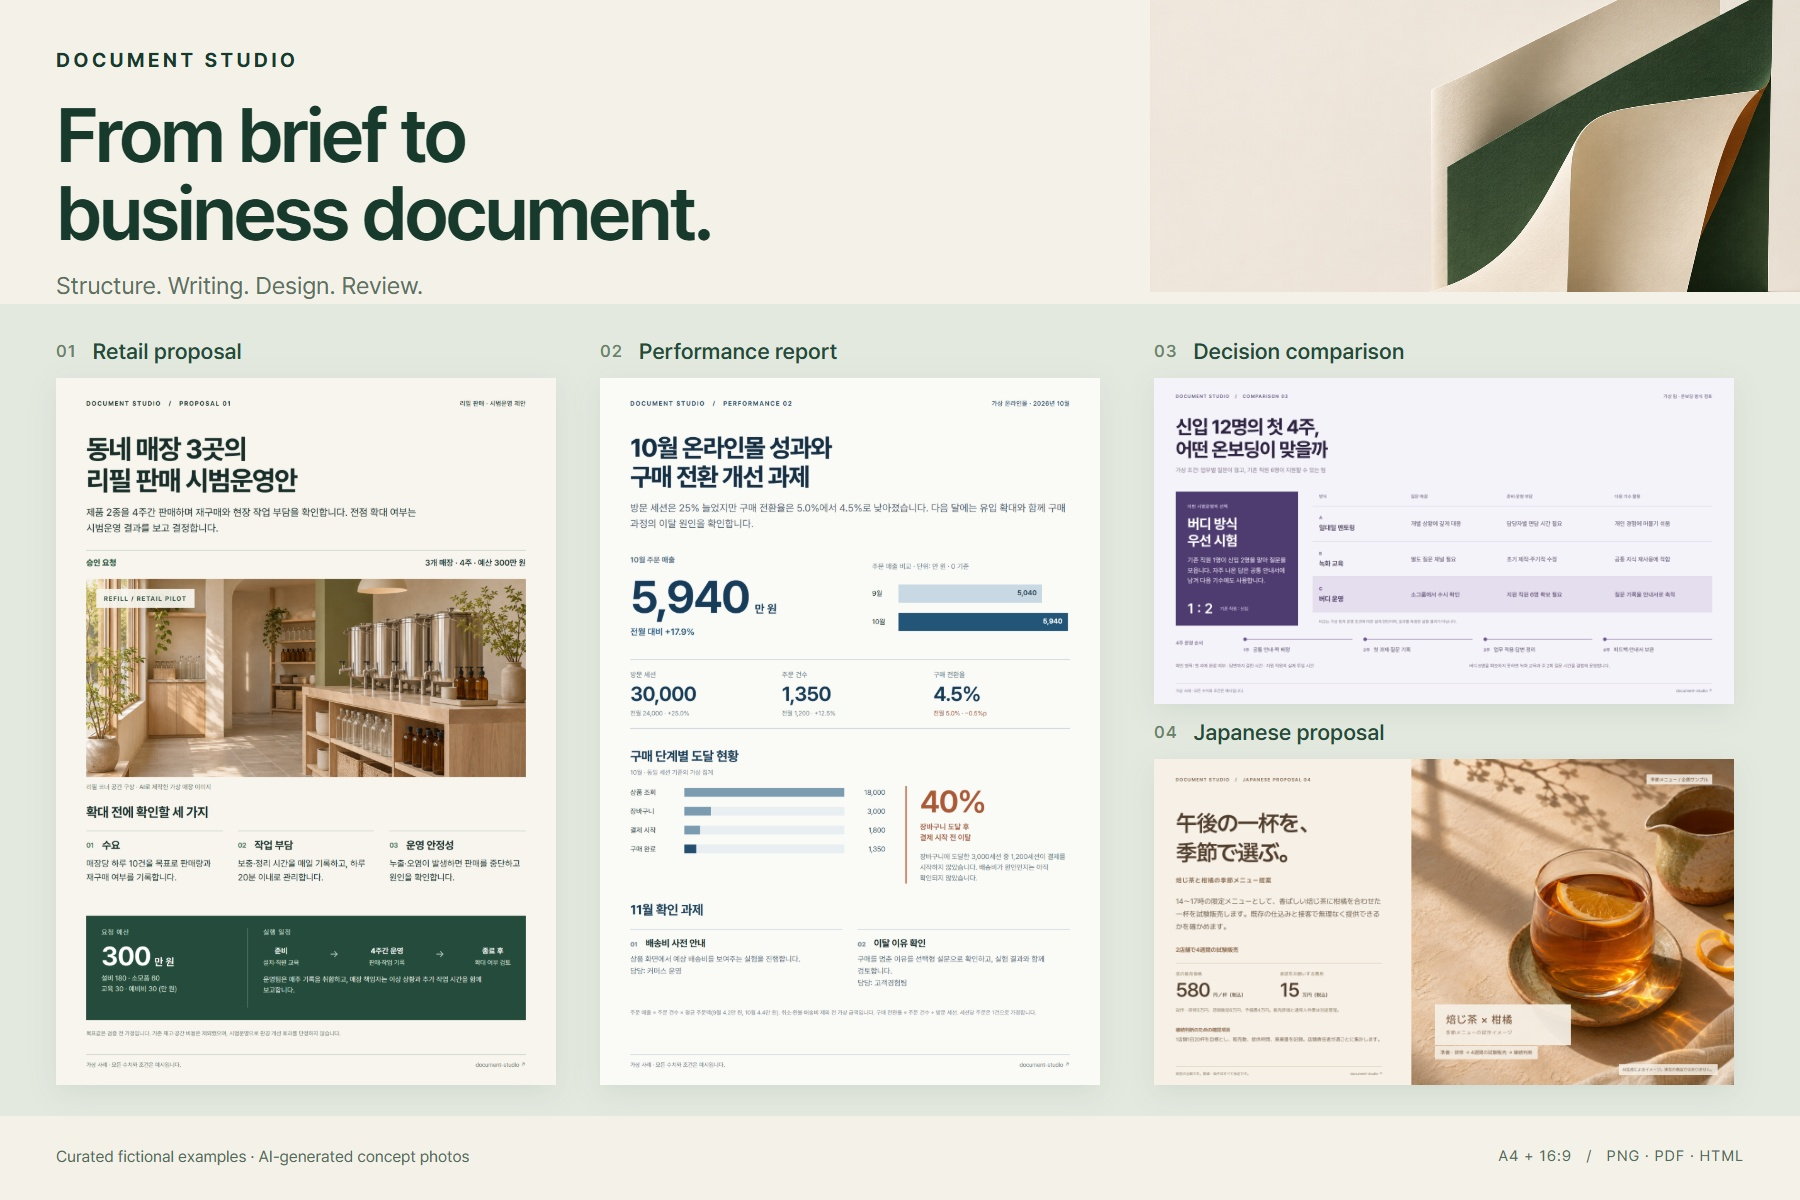
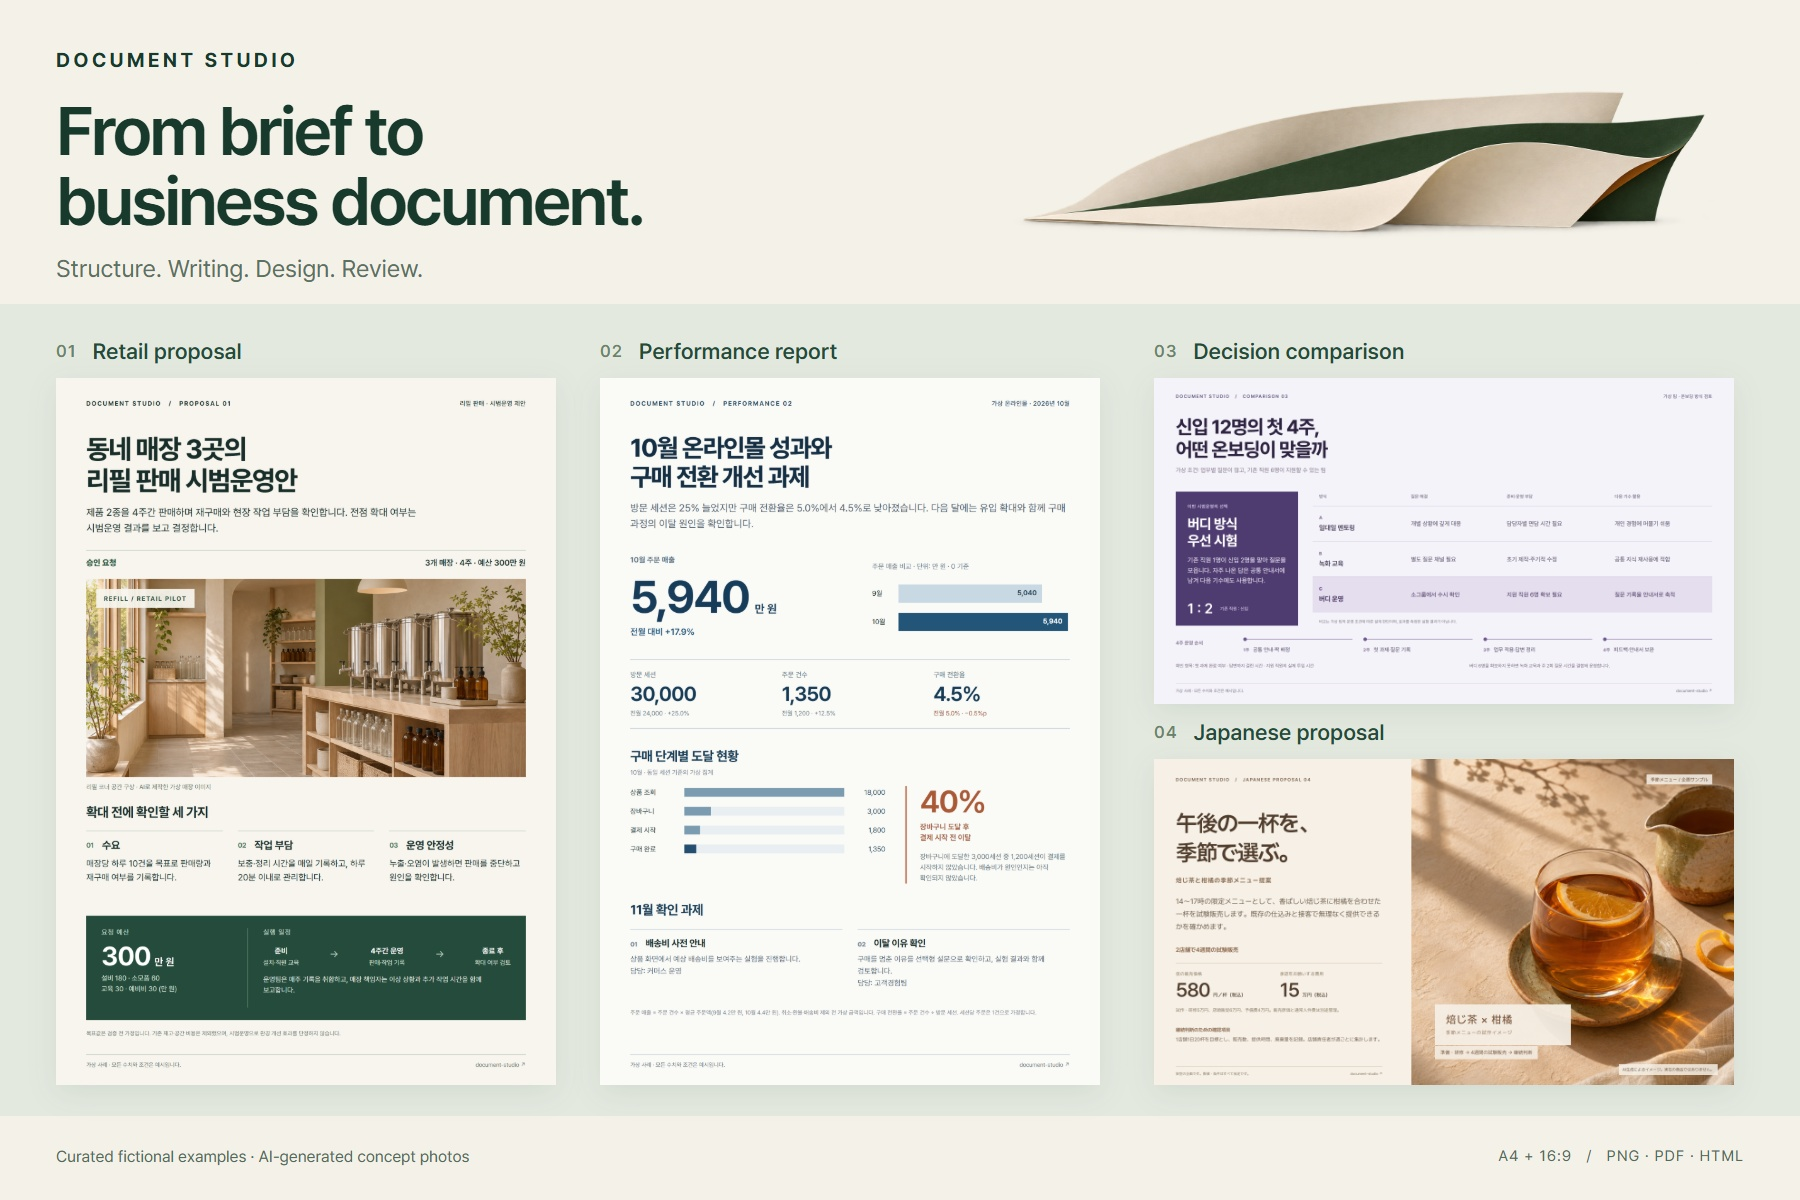
docs: fix cropped background artwork in the README cover (#16)

Changed region(s): [[0.5911, 0.0, 1.0, 0.2467], [0.0311, 0.0925, 0.4044, 0.2467]]

diff --git a/docs/assets/brand/cover.html b/docs/assets/brand/cover.html
@@ -7,10 +7,10 @@
 @font-face{font-family:Pretendard;src:url(../../../examples/document-collection/assets/PretendardVariable.woff2);font-weight:100 900}
 *{box-sizing:border-box}body{margin:0;background:#f4f1e9;font-family:Pretendard,Arial,sans-serif;color:#183a2d}
 .canvas{position:relative;width:1800px;height:1200px;overflow:hidden;background:#f4f1e9}
-.art{position:absolute;right:0;top:0;width:650px;height:292px;object-fit:cover;object-position:center 43%}
+.art{position:absolute;right:36px;top:18px;width:800px;height:268px;object-fit:contain}
 header{position:absolute;left:56px;top:48px;z-index:1}
 .wordmark{font-size:20px;letter-spacing:3.3px;font-weight:700}
-h1{font-size:76px;font-weight:620;letter-spacing:-3.3px;line-height:1.03;margin:24px 0 0}
+h1{font-size:68px;font-weight:620;letter-spacing:-2.9px;line-height:1.03;margin:24px 0 0}
 .sub{font-size:24px;margin-top:18px;color:#5c715f}
 .stage{position:absolute;left:0;right:0;top:304px;height:812px;background:#e4e9df}
 .sample{position:absolute;top:338px}.label{height:40px;font-size:22px;font-weight:550;display:flex;gap:16px;align-items:flex-start;color:#244b39}
@@ -25,7 +25,7 @@ footer{position:absolute;left:56px;right:56px;bottom:34px;display:flex;justify-c
 </head>
 <body>
 <div class="canvas">
-  <img class="art" src="paper-sculpture.png" alt="Abstract paper sculpture in ivory and forest green">
+  <img class="art" src="paper-sculpture.png" alt="Three gently folded paper sheets, fully visible on a transparent background">
   <header><div class="wordmark">DOCUMENT STUDIO</div><h1>From brief to<br>business document.</h1><div class="sub">Structure. Writing. Design. Review.</div></header>
   <div class="stage"></div>
   <div class="sample a"><div class="label"><span>01</span>Retail proposal</div><img src="../../../examples/document-collection/png/01-refill-proposal.png" alt="Korean retail pilot proposal"></div>

diff --git a/docs/assets/brand/README.md b/docs/assets/brand/README.md
@@ -4,12 +4,12 @@ The README cover combines the four original [document samples](../../../examples
 
 - `cover.html`: editable cover layout, 1800 × 1200 CSS pixels.
 - `document-studio-cover.jpg`: rendered README cover, JPEG quality 95.
-- `paper-sculpture.png`: original brand artwork, generated with the built-in image generation tool on 14 November 2026. It is decorative concept art, not a screenshot or document output.
+- `paper-sculpture.png`: transparent brand artwork, revised with the built-in image generation tool on 15 November 2026. The complete, low horizontal paper sculpture is contained beside the heading without cropping or a rectangular backdrop. It is decorative concept art, not a screenshot or document output.
 
 To edit the cover, open `cover.html` from the downloaded repository. Keep the repository folders intact so the sample images and fonts resolve. Render the `.canvas` element at its native size after `document.fonts.ready` resolves.
 
 ## Artwork prompt
 
-> Create an original premium editorial brand illustration for an open-source business document studio. Landscape 3:2 composition, high resolution. A sculptural arrangement of a few thick ivory paper sheets folding into elegant architectural planes, one deep forest-green sheet and a very small burnt-amber edge, resting on a seamless warm ivory background (#f4f1e9). Museum-quality still-life 3D photography, tactile matte paper fibers, very precise folds, soft directional daylight, subtle contact shadows, calm Swiss editorial design. The sculpture occupies the right two thirds with breathing room, left third is clean empty ivory. Simple and restrained, visually memorable even at small size. No letters, no numbers, no logos, no text, no mock document content, no screens, no people, no stationery props, no glossy plastic, no gradients as decoration. This is a standalone brand artwork, not a screenshot of a software product.
+> Edit the supplied paper sculpture into an isolated brand illustration for a shallow horizontal website header. Preserve the tactile ivory paper and deep forest-green palette with only a tiny burnt-amber accent. RECOMPOSE the sculpture into a LOW, WIDE arrangement: three broad, gracefully folded paper sheets gently fanned horizontally, like a considered editorial paper study. The whole sculpture must be visible from edge to edge, no cropping. Center the sculpture in the canvas, with generous completely transparent margins on every side; it should occupy the middle 45 percent of canvas height and about 80 percent of width, so its complete silhouette is much wider than tall. Realistic matte paper fibers, crisp folds, very subtle soft contact shadow below only. Genuine transparent background, no beige rectangular panel, no floor plane, no backdrop, no frame. Do not include lettering, symbols, documents with writing, screens, logos, or props. Premium and restrained, not towering like a wall. It will be placed beside dark-green text on an ivory background; keep the entire paper object comfortably contained.
 
 The artwork and cover are original repository material under the [MIT license](../../../LICENSE). Fonts retain their existing [third-party notices](../../../THIRD_PARTY_NOTICES.md).
